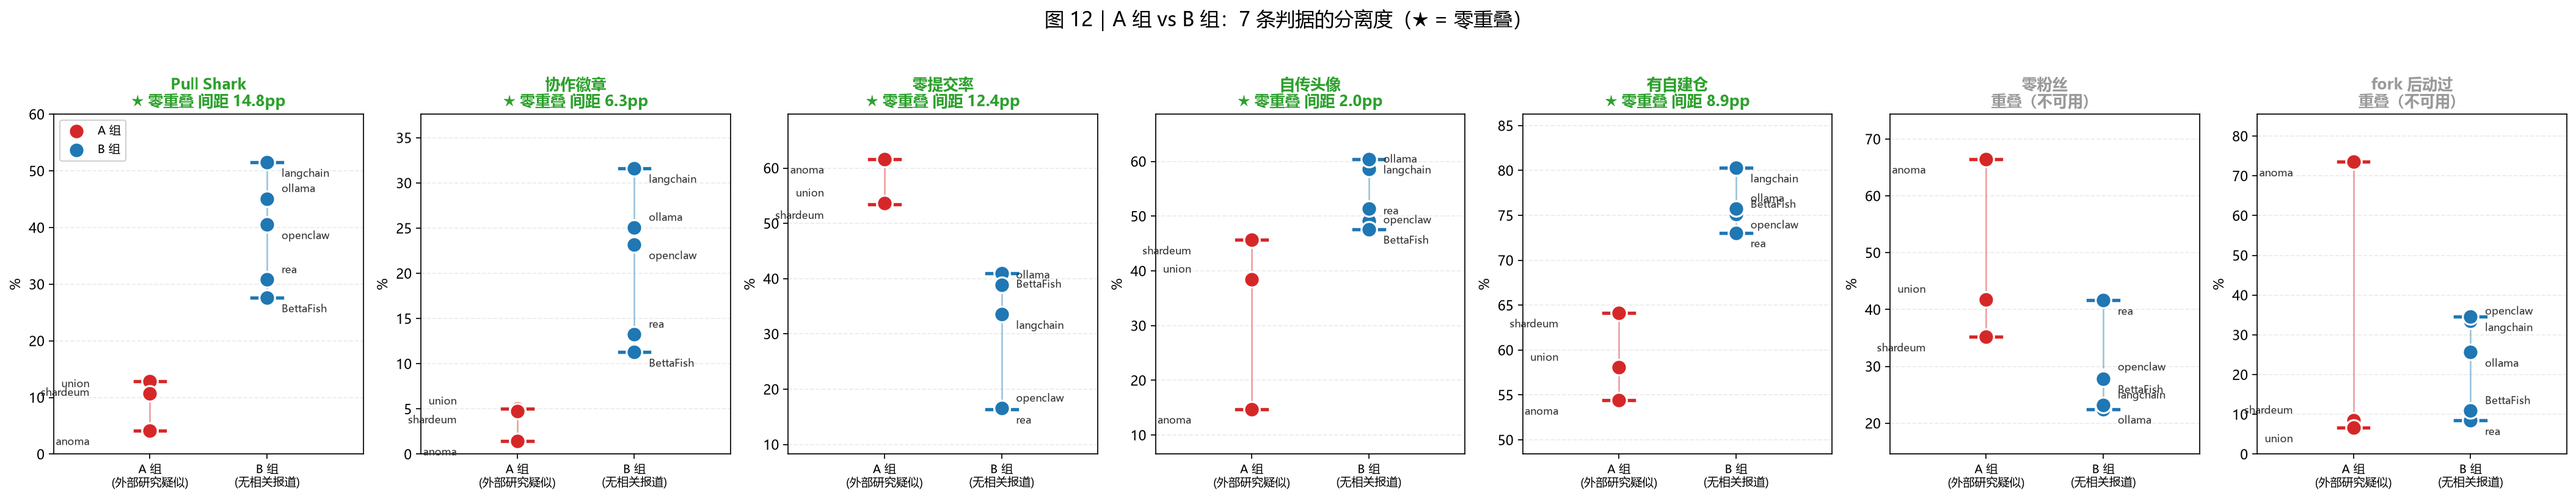
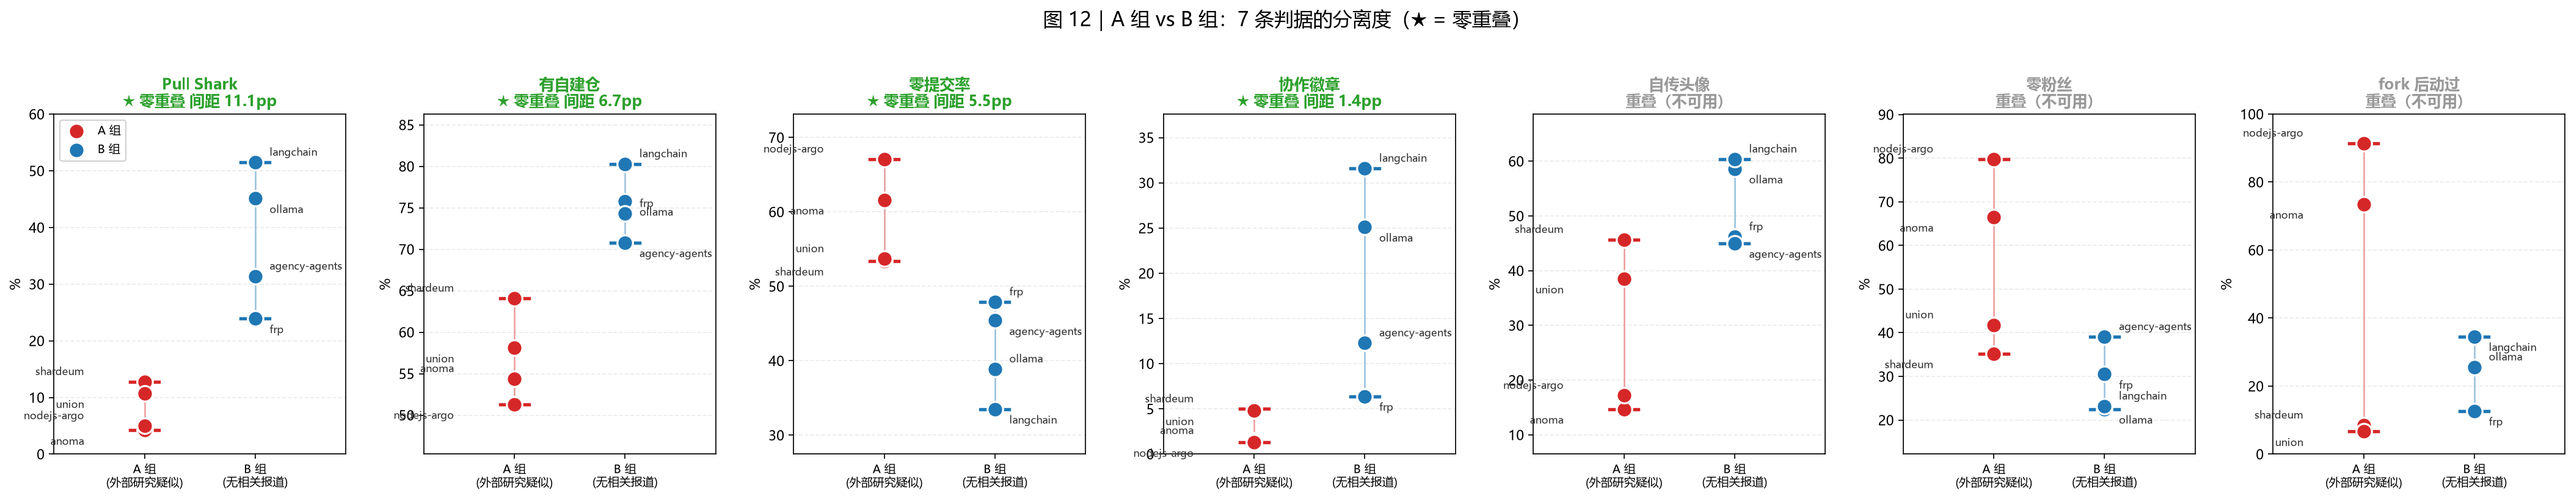
fig+docs: 结论图更新为 4A/4B（4 条零重叠），AGENTS.md 事实表同步

diff --git a/scripts/figures/_make_ab_figure.py b/scripts/figures/_make_ab_figure.py
@@ -24,35 +24,59 @@ FIGS = os.path.join(BASE, "figs")
 matplotlib.rcParams["font.sans-serif"] = ["Microsoft YaHei", "SimHei", "DejaVu Sans"]
 matplotlib.rcParams["axes.unicode_minus"] = False
 
-A = [("shardeum", "shardeum"), ("union", "union"), ("anoma", "anoma")]
-B = [("rea", "rea"), ("openclaw", "openclaw"), ("bettafish", "BettaFish"),
-     ("ollama", "ollama"), ("langchain", "langchain")]
+# 4A / 4B（2026-11-18 终版）
+A = [("shardeum", "shardeum"), ("union", "union"), ("anoma", "anoma"),
+     ("nodejsargo", "nodejs-argo")]
+B = [("ollama", "ollama"), ("langchain", "langchain"),
+     ("frp", "frp"), ("agencyagents", "agency-agents")]
 
 # (列名, 显示名, 越高越像 A 组)
 JUDGES = [
-    ("has_pull_shark", "Pull Shark", False),
-    ("has_collab", "协作徽章", False),
-    ("commit_zero", "零提交率", True),
-    ("avatar_photo", "自传头像", False),
+    ("pull_shark", "Pull Shark", False),
     ("has_own", "有自建仓", False),
+    ("commit_zero", "零提交率", True),
+    ("has_collab", "协作徽章", False),
+    ("avatar_photo", "自传头像", False),
     ("followers_zero", "零粉丝", True),
     ("fork_touched", "fork 后动过", False),
 ]
 
 
 def load(tag):
-    p = os.path.join(OUT, f"features_{tag}.csv")
-    if not os.path.exists(p):
-        return []
-    with open(p, encoding="utf-8-sig", errors="replace") as fh:
-        return list(csv.DictReader(fh))
+    """返回画像 dict。新仓从「一人一条」合并档案算；其余从 features CSV 算。
+
+    `fork_touched` 不在 9 个维度里（来自 fork 名单），
+    对合并档案的仓单独从 features CSV 补这一列。
+    """
+    import importlib.util
+    cf_p = os.path.join(os.path.dirname(os.path.dirname(os.path.abspath(__file__))),
+                        "analysis", "_compare_full.py")
+    spec = importlib.util.spec_from_file_location("cf", cf_p)
+    cf = importlib.util.module_from_spec(spec)
+    spec.loader.exec_module(cf)
+
+    full_p = os.path.join(BASE, "data", "raw", f"accounts_full_{tag}.jsonl")
+    if os.path.exists(full_p):
+        prof = cf.profile_from_recs(cf.best_records(full_p))
+    else:
+        prof = cf.from_csv(tag)
+
+    # fork_touched 兜底：从 features CSV 取
+    if prof.get("fork_touched") is None:
+        csv_p = os.path.join(OUT, f"features_{tag}.csv")
+        if os.path.exists(csv_p):
+            with open(csv_p, encoding="utf-8-sig", errors="replace") as fh:
+                rows = list(csv.DictReader(fh))
+            x = [r for r in rows if r.get("fork_touched") not in (None, "")]
+            if x:
+                prof["fork_touched"] = (sum(1 for r in x if str(r["fork_touched"]) == "1")
+                                        / len(x) * 100)
+    return prof
 
 
-def rate(rows, k):
-    x = [r for r in rows if r.get(k) not in (None, "")]
-    if not x:
-        return None
-    return sum(1 for r in x if str(r[k]) == "1") / len(x) * 100
+def rate(prof, k):
+    v = prof.get(k)
+    return v if isinstance(v, (int, float)) else None
 
 
 def main() -> int:
